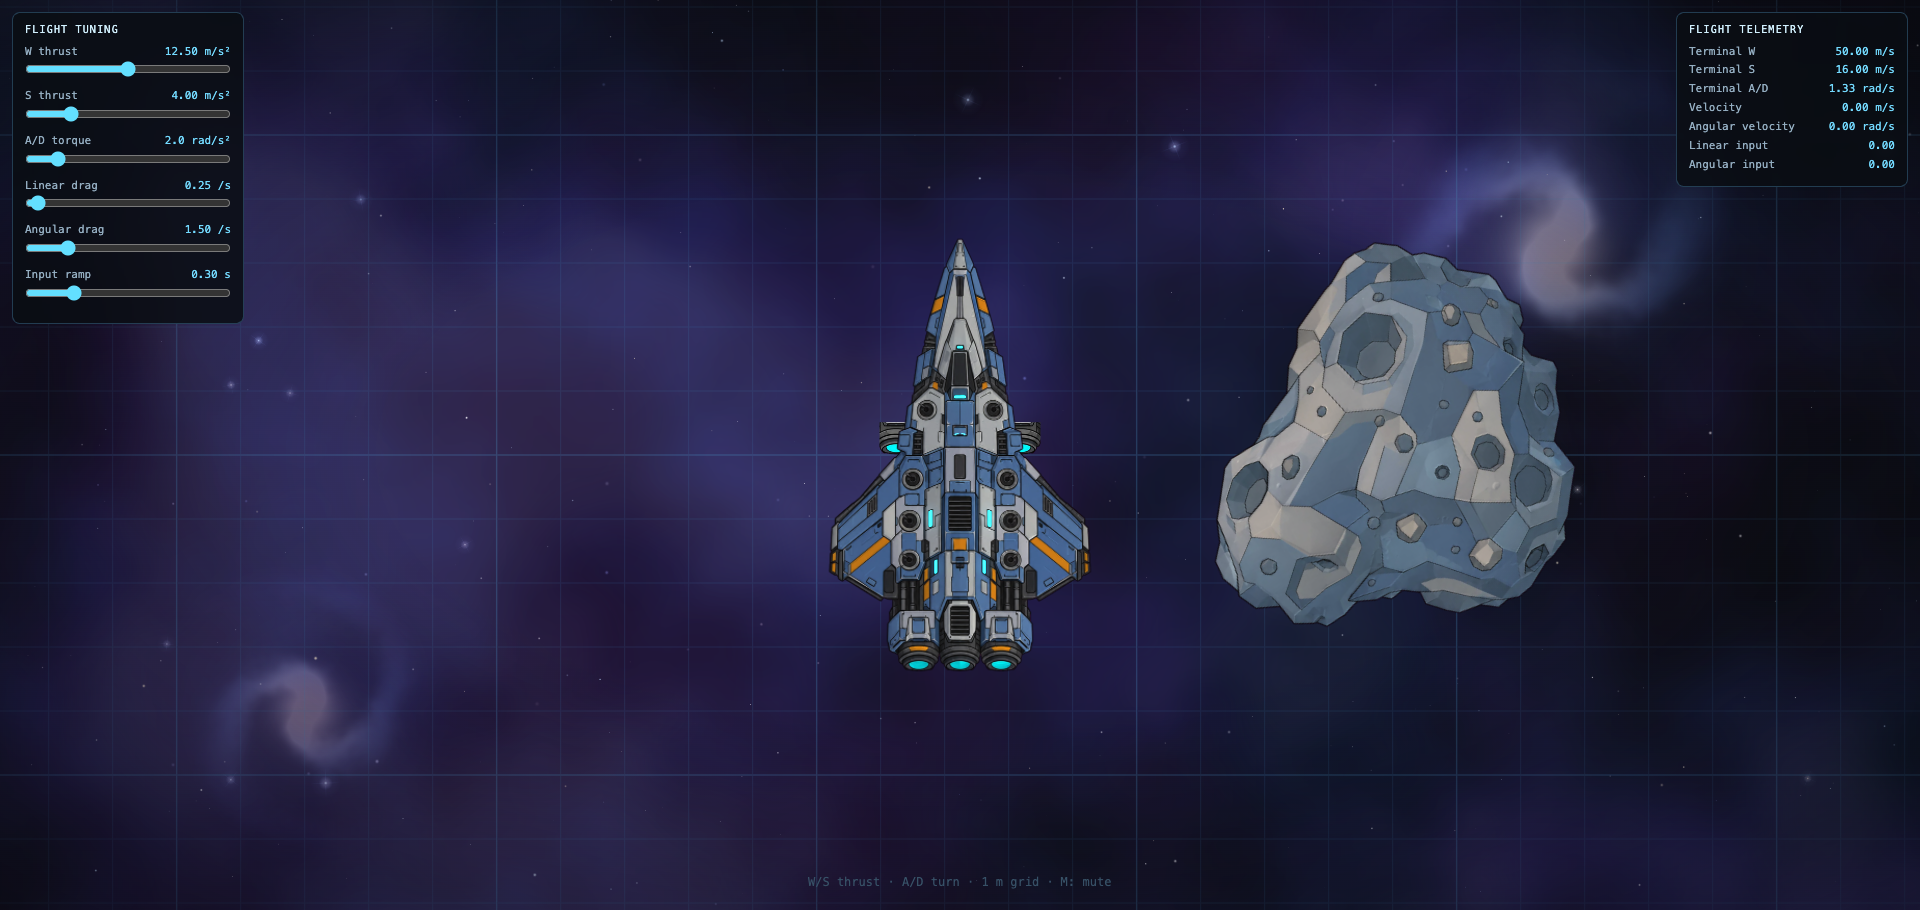
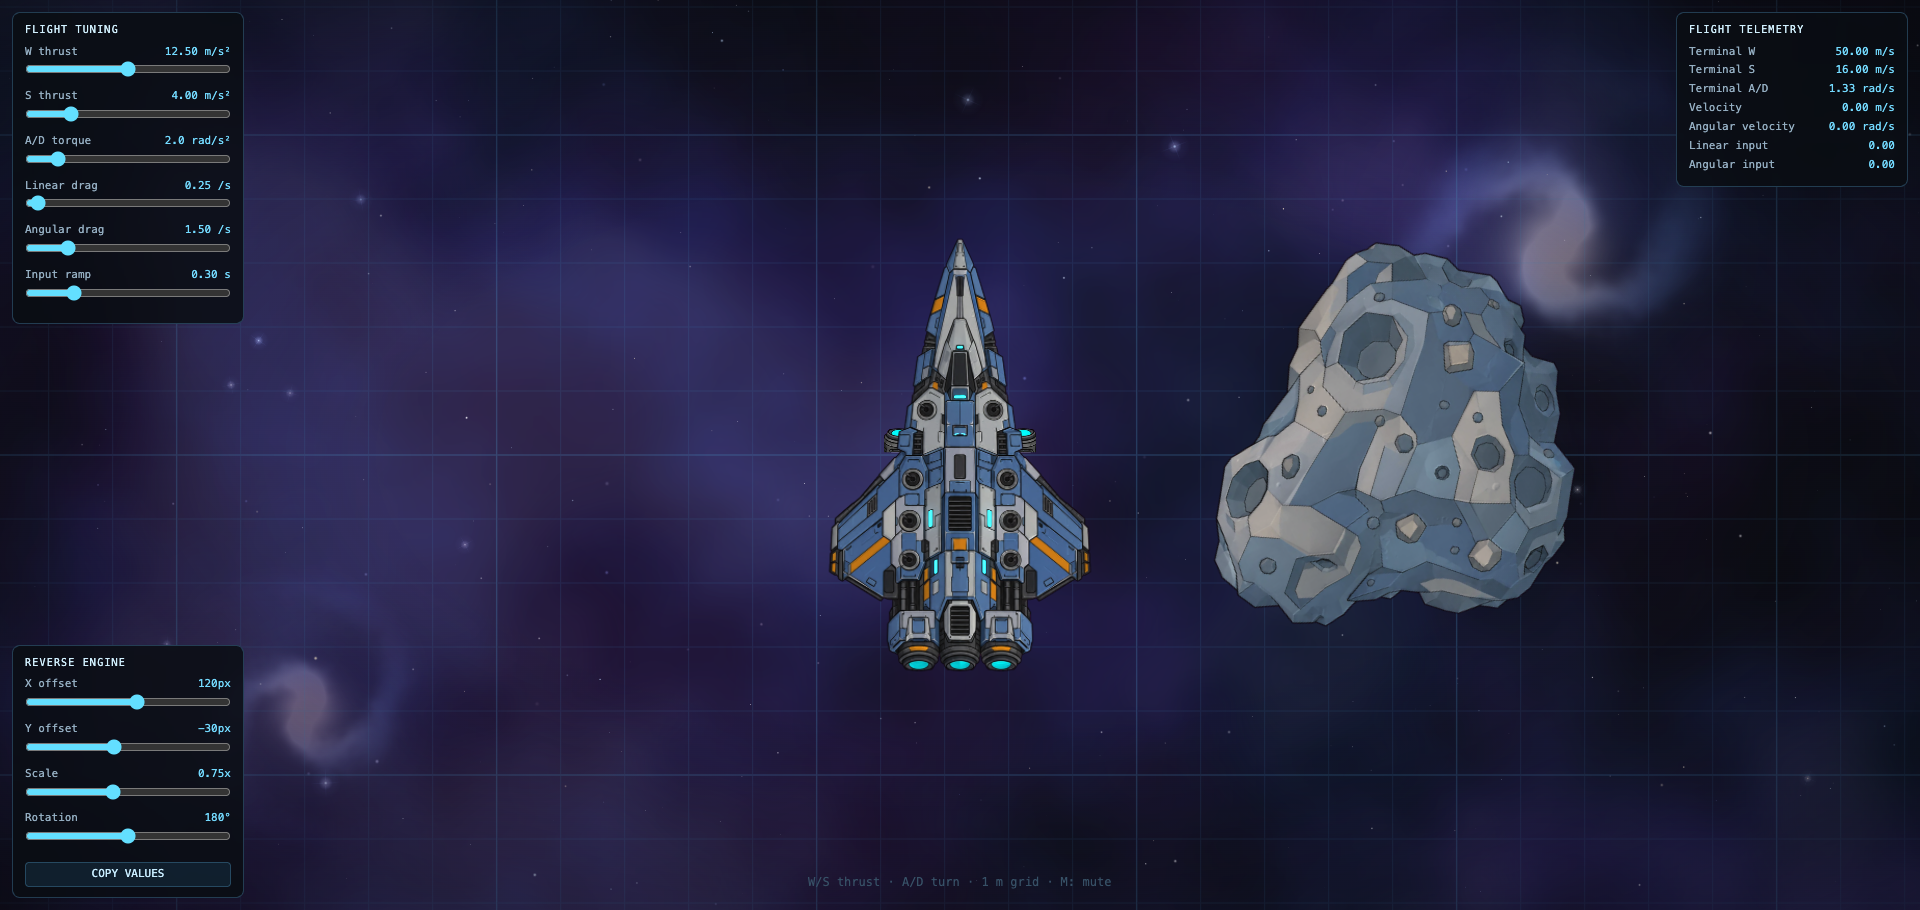
feat: add live reverse engine placement editor

Changed region(s): [[0.0, 0.7077, 0.125, 0.9846], [0.5312, 0.4615, 0.5625, 0.4923], [0.4375, 0.4615, 0.4688, 0.4923]]

diff --git a/src/app/reverse-engine-editor.ts b/src/app/reverse-engine-editor.ts
@@ -1,0 +1,141 @@
+import type { ReverseEngineConfig } from './reverse-engines';
+
+const PANEL_STYLE: Partial<CSSStyleDeclaration> = {
+  position: 'fixed',
+  left: '12px',
+  bottom: '12px',
+  zIndex: '10',
+  width: '232px',
+  padding: '10px 12px',
+  borderRadius: '8px',
+  border: '1px solid rgba(90, 160, 200, 0.35)',
+  background: 'rgba(5, 9, 18, 0.86)',
+  color: '#9fb7c9',
+  font: '11px/1.35 ui-monospace, SFMono-Regular, Menlo, monospace',
+  backdropFilter: 'blur(6px)',
+  userSelect: 'none',
+};
+
+interface SliderSpec {
+  key: keyof ReverseEngineConfig;
+  label: string;
+  min: number;
+  max: number;
+  step: number;
+  digits: number;
+  display: (value: number) => string;
+}
+
+const SLIDERS: SliderSpec[] = [
+  {
+    key: 'xOffset',
+    label: 'X offset',
+    min: 0,
+    max: 220,
+    step: 1,
+    digits: 0,
+    display: (v) => `${v}px`,
+  },
+  {
+    key: 'yOffset',
+    label: 'Y offset',
+    min: -200,
+    max: 200,
+    step: 1,
+    digits: 0,
+    display: (v) => `${v}px`,
+  },
+  {
+    key: 'scale',
+    label: 'Scale',
+    min: 0.2,
+    max: 1.5,
+    step: 0.01,
+    digits: 2,
+    display: (v) => `${v.toFixed(2)}x`,
+  },
+  {
+    key: 'rotation',
+    label: 'Rotation',
+    min: 0,
+    max: Math.PI * 2,
+    step: Math.PI / 180,
+    digits: 0,
+    display: (v) => `${Math.round((v * 180) / Math.PI)}°`,
+  },
+];
+
+export interface ReverseEngineEditor {
+  element: HTMLElement;
+  destroy(): void;
+}
+
+export function createReverseEngineEditor(
+  config: ReverseEngineConfig,
+  onChange: (config: ReverseEngineConfig) => void,
+): ReverseEngineEditor {
+  const root = document.createElement('div');
+  Object.assign(root.style, PANEL_STYLE);
+
+  const title = document.createElement('div');
+  title.textContent = 'REVERSE ENGINE';
+  title.style.cssText = 'margin-bottom:8px;color:#d8f3ff;letter-spacing:0.12em;font-size:10px;';
+  root.append(title);
+
+  for (const spec of SLIDERS) {
+    const row = document.createElement('div');
+    row.style.cssText = 'margin:7px 0;';
+
+    const header = document.createElement('div');
+    header.style.cssText = 'display:flex;justify-content:space-between;gap:8px;margin-bottom:2px;';
+
+    const label = document.createElement('span');
+    label.textContent = spec.label;
+
+    const value = document.createElement('span');
+    value.textContent = spec.display(config[spec.key]);
+    value.style.cssText = 'color:#7fdfff;font-variant-numeric:tabular-nums;';
+
+    const input = document.createElement('input');
+    input.type = 'range';
+    input.min = String(spec.min);
+    input.max = String(spec.max);
+    input.step = String(spec.step);
+    input.value = String(config[spec.key]);
+    input.setAttribute('aria-label', `Reverse engine ${spec.label}`);
+    input.style.cssText = 'width:100%;margin:0;accent-color:#6fe3ff;cursor:pointer;';
+    input.addEventListener('input', () => {
+      config[spec.key] = Number(input.value);
+      value.textContent = spec.display(config[spec.key]);
+      onChange(config);
+    });
+
+    header.append(label, value);
+    row.append(header, input);
+    root.append(row);
+  }
+
+  const copy = document.createElement('button');
+  copy.type = 'button';
+  copy.textContent = 'COPY VALUES';
+  copy.style.cssText =
+    'width:100%;margin-top:6px;padding:4px 0;border:1px solid rgba(90,160,200,.35);border-radius:4px;background:rgba(20,50,70,.6);color:#cfefff;font:inherit;cursor:pointer;';
+  copy.addEventListener('click', () => {
+    void navigator.clipboard?.writeText(
+      JSON.stringify({
+        xOffset: config.xOffset,
+        yOffset: config.yOffset,
+        scale: config.scale,
+        rotationDegrees: Math.round((config.rotation * 180) / Math.PI),
+      }),
+    );
+  });
+  root.append(copy);
+
+  return {
+    element: root,
+    destroy(): void {
+      root.remove();
+    },
+  };
+}

diff --git a/src/app/lighting-scene.ts b/src/app/lighting-scene.ts
@@ -10,8 +10,9 @@ import type { FlightControls } from './ship-flight';
 import { createFlightTuner } from './flight-tuner';
 import { createFlightTelemetry } from './flight-telemetry';
 import { createGroundGrid } from './ground-grid';
-import { createReverseEngines } from './reverse-engines';
 import { FLAME_LOCAL_LENGTH, createEngineExhaust } from './engine-exhaust';
+import { createReverseEngines, DEFAULT_REVERSE_ENGINE_CONFIG } from './reverse-engines';
+import { createReverseEngineEditor } from './reverse-engine-editor';
 import { PIXELS_PER_METER } from './world-scale';
 
 export interface Scene {
@@ -72,7 +73,8 @@ export async function createScene(app: Application): Promise<Scene> {
 
   const ground = createGroundGrid();
   const exhaust = createEngineExhaust();
-  const reverseEngines = createReverseEngines(reverseEngine);
+  const reverseEngineConfig = { ...DEFAULT_REVERSE_ENGINE_CONFIG };
+  const reverseEngines = createReverseEngines(reverseEngine, reverseEngineConfig);
   content.addChild(ground.mesh, exhaust.smoke, reverseEngines.container);
 
   const ship: LitSprite = createLitSprite(shipColor, shipNormal, shipEmissive, shipGlow);
@@ -261,6 +263,11 @@ export async function createScene(app: Application): Promise<Scene> {
   const flightTuner = createFlightTuner(tuning);
   document.body.append(flightTuner.element);
 
+  const reverseEngineEditor = createReverseEngineEditor(reverseEngineConfig, (config) => {
+    reverseEngines.setConfig(config);
+  });
+  document.body.append(reverseEngineEditor.element);
+
   const telemetry = createFlightTelemetry(flight, tuning);
   document.body.append(telemetry.element);
 
@@ -286,6 +293,7 @@ export async function createScene(app: Application): Promise<Scene> {
       window.removeEventListener('keyup', onKeyUp);
       window.removeEventListener('blur', onBlur);
       flightTuner.destroy();
+      reverseEngineEditor.destroy();
       telemetry.destroy();
       exhaust.destroy();
       reverseEngines.destroy();

diff --git a/src/app/reverse-engines.ts b/src/app/reverse-engines.ts
@@ -1,28 +1,50 @@
 import { Container, Sprite, Texture } from 'pixi.js';
 
-const ENGINE_X_OFFSETS = [-120, 120] as const;
-const ENGINE_Y_OFFSET = -30;
+export interface ReverseEngineConfig {
+  xOffset: number;
+  yOffset: number;
+  scale: number;
+  /** Radians. */
+  rotation: number;
+}
+
+export const DEFAULT_REVERSE_ENGINE_CONFIG: ReverseEngineConfig = {
+  xOffset: 120,
+  yOffset: -30,
+  scale: 0.75,
+  rotation: Math.PI,
+};
 
 export interface ReverseEngines {
   container: Container;
+  setConfig(config: ReverseEngineConfig): void;
   update(screenX: number, screenY: number, rotation: number, scale: number): void;
   destroy(): void;
 }
 
-/** Two nozzle copies tucked under the wing leading edges, behind the ship. */
-export function createReverseEngines(texture: Texture): ReverseEngines {
+/** Two nozzle copies under the wing leading edges, drawn behind the ship. */
+export function createReverseEngines(
+  texture: Texture,
+  initial: ReverseEngineConfig = DEFAULT_REVERSE_ENGINE_CONFIG,
+): ReverseEngines {
   const container = new Container();
+  const left = new Sprite({ texture, anchor: 0.5 });
+  const right = new Sprite({ texture, anchor: 0.5 });
+  container.addChild(left, right);
 
-  for (const offset of ENGINE_X_OFFSETS) {
-    const sprite = new Sprite({ texture, anchor: 0.5 });
-    sprite.x = offset;
-    sprite.y = ENGINE_Y_OFFSET;
-    sprite.rotation = Math.PI;
-    container.addChild(sprite);
-  }
+  const setConfig = (config: ReverseEngineConfig): void => {
+    left.position.set(-config.xOffset, config.yOffset);
+    right.position.set(config.xOffset, config.yOffset);
+    left.rotation = config.rotation;
+    right.rotation = config.rotation;
+    left.scale.set(config.scale);
+    right.scale.set(config.scale);
+  };
+  setConfig(initial);
 
   return {
     container,
+    setConfig,
     update(screenX, screenY, rotation, scale): void {
       container.position.set(screenX, screenY);
       container.rotation = rotation;

diff --git a/README.md b/README.md
@@ -58,7 +58,8 @@ src/
   app/flight-telemetry.ts Read-only terminal/velocity/input telemetry overlay
   app/ground-grid.ts      Screen-space 1 m grid fixed to the near dust layer
   app/engine-exhaust.ts   Three cyan cone flames + world-space smoke exhaust
-  app/reverse-engines.ts  Two rotated engine nozzles under the wing leading edges
+  app/reverse-engines.ts  Configurable reverse-engine nozzles under the wings
+  app/reverse-engine-editor.ts  Live X/Y/scale/rotation editor for them
   app/world-scale.ts      Metres ↔ pixels conversion (64 px per metre)
   app/lit-sprite.ts       Custom normal-map Mesh shader (directional + emissive)
   app/background.ts       Layered procedural background (nebulas, galaxies, stars)
@@ -97,6 +98,8 @@ docs/                     Architecture decisions, reference art and agent workfl
 - The top-left **FLIGHT TUNING** panel has live sliders for thrust, torque, linear/angular drag
   and input ramp. The top-right **FLIGHT TELEMETRY** panel shows terminal W/S/A-D speeds,
   current velocity, angular velocity, and ramped inputs (all linear units in metres).
+- The bottom-left **REVERSE ENGINE** editor moves, scales, and rotates the two reverse nozzles
+  under the wings; **COPY VALUES** copies the current config.
 - **Drag the canvas** to look around (the follow cam eases back to the ship); **scroll / pinch**
   zooms out from the default 1× (`0.02×–1×`, 50× max zoom-out). **Double-click** resets zoom.
 - **Click** for the placeholder sound; **M** mutes/unmutes.

diff --git a/public/assets/lighting/README.md b/public/assets/lighting/README.md
@@ -9,9 +9,9 @@ These are the assets the game scene loads; do not edit them by hand.
 | `ship-normal.png`     | 514×841 | `ship-normal.webp`     |
 | `asteroid-color.png`  | 643×622 | `asteroid-color.webp`  |
 | `asteroid-normal.png` | 643×622 | `asteroid-normal.webp` |
+| `reverse-engine.png`  | 70×66   | center engine crop     |
 | `ship-emissive.png`   | 514×841 | derived cyan panels    |
 | `ship-glow.png`       | 514×841 | blurred emissive matte |
-| `reverse-engine.png`  | 70×66   | center engine, rotated |
 
 Processing steps (one-off, not a runtime pipeline):
 
@@ -28,8 +28,8 @@ Processing steps (one-off, not a runtime pipeline):
   the normal map is mirrored with its X channel flipped,
 - the three rear cyan engine ovals are excluded from the emissive/glow maps for special
   treatment later,
-- `reverse-engine.png` is a 180° crop of the center nozzle, placed under the wing leading edges
-  as the reversing-engine visual.
+- `reverse-engine.png` is the center-nozzle crop used by two sprite copies, rendered behind the
+  ship under the wing leading edges; placement/scale/rotation are editable at runtime.
 
 Normal maps use tangent-space RGB (red = X, green = Y, blue = Z). Both pairs come from the
 supplied reference art; re-export lossless versions if the source normal maps are ever replaced.

diff --git a/AGENTS.md b/AGENTS.md
@@ -59,8 +59,9 @@ behaviour, also run `pnpm browser:inspect` and check the screenshot.
   (64 world px per metre; major lines every 5 m).
 - `src/app/engine-exhaust.ts` — three cyan cone-flame sprites plus dense dust-world smoke
   particles emitted from the cone tips only while engine power is on; old puffs fade over 10 s.
-- `src/app/reverse-engines.ts` — two rotated center-nozzle copies under the wing leading edges,
-  rendered behind the ship as reverse-engine nozzles.
+- `src/app/reverse-engines.ts` — two configurable reverse-engine nozzle sprites under the wings,
+  rendered behind the ship.
+- `src/app/reverse-engine-editor.ts` — live DOM editor for reverse-engine X/Y/scale/rotation.
 - `src/app/lit-sprite.ts` — custom normal-map Mesh shader (directional light, emissive/glow).
 - `src/app/background.ts` — layered procedural background (nebulas, galaxies, stars, flares)
   and the smoothed camera that follows the ship.
